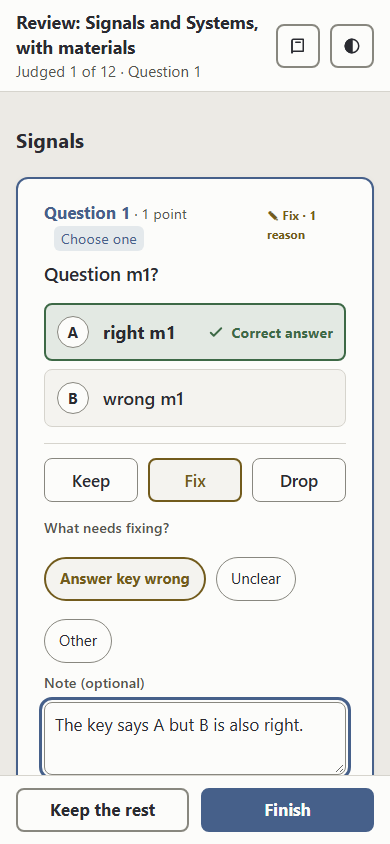
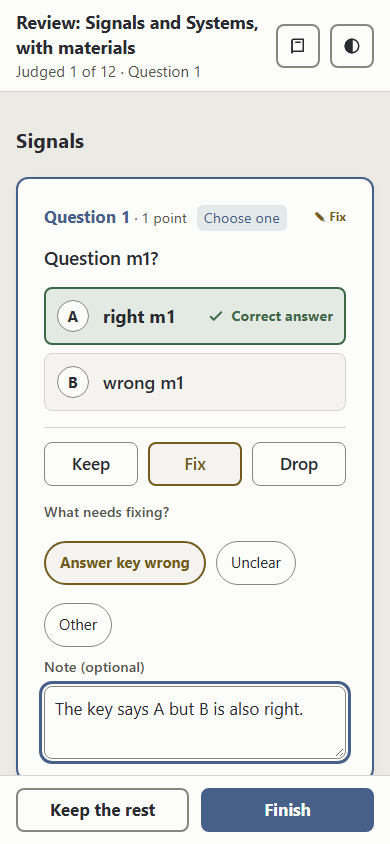
3m review: the phone card shows the verdict alone, source optional in the Review type, fonts-cli gets a named timeout

diff --git a/test/build/fonts-cli.test.ts b/test/build/fonts-cli.test.ts
@@ -75,11 +75,13 @@ describe("build --fonts", () => {
     expect(r.err.join("\n")).toContain("--fonts some");
     expect(r.html).toBeNull();
   });
+  // six whole builds, each embedding fonts: 0.3 s alone, past Vitest's 5 s default beside the other test files on a
+  // 4-core laptop (3m's review), so it gets a minute
   it("the same quiz and --fonts give the same bytes, for each value", async () => {
     for (const fonts of ["quiz", "all", "none"]) {
       expect((await run(front, { fonts })).html).toBe((await run(front, { fonts })).html);
     }
-  });
+  }, 60_000);
 });
 
 describe("the default from config.toml", () => {

diff --git a/src/review/Form.tsx b/src/review/Form.tsx
@@ -146,8 +146,9 @@ function Status({ state, id, r }: { state: FormState; id: string; r: ReviewMessa
     <span class="fm-review-status" data-verdict={v ?? "none"}>
       {v === null
         ? r.notJudged
-        : v === "keep"
-          ? `${GLYPH.keep} ${r.keep}`
+        : v === "keep" || state.phone.value
+          ? // on a phone the verdict alone, as on the ReviewPhone board: the reasons are in view under the buttons
+            `${GLYPH[v]} ${r[v]}`
           : `${GLYPH[v]} ${r[v]} · ${r.reasonCount(e?.reasons.length ?? 0)}`}
     </span>
   );

diff --git a/docs/design/TECHNICAL_DESIGN.md b/docs/design/TECHNICAL_DESIGN.md
@@ -148,7 +148,7 @@ type Review = {
     reasons: ReasonId[];            // empty for keep; at least one for fix and drop
     note: string;                   // required with "other", else may be empty
     hash: string;                   // the question hash when judged (foundation 1)
-    source: string;                 // fix and drop only, and required there: the question's block as judged, for the diff in --since
+    source?: string;                // required on fix and drop, never on keep: the question's block as judged, for the diff in --since
     assumed?: true;                 // kept by "Keep the rest" or the Finish dialog, not judged one by one
   }>;
 };
